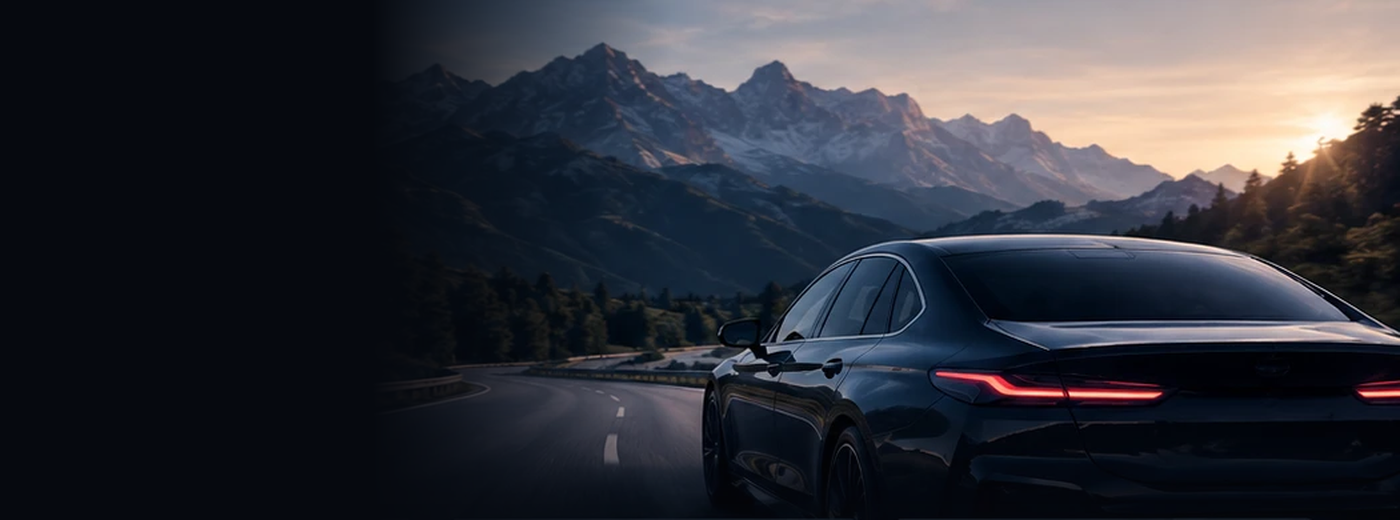
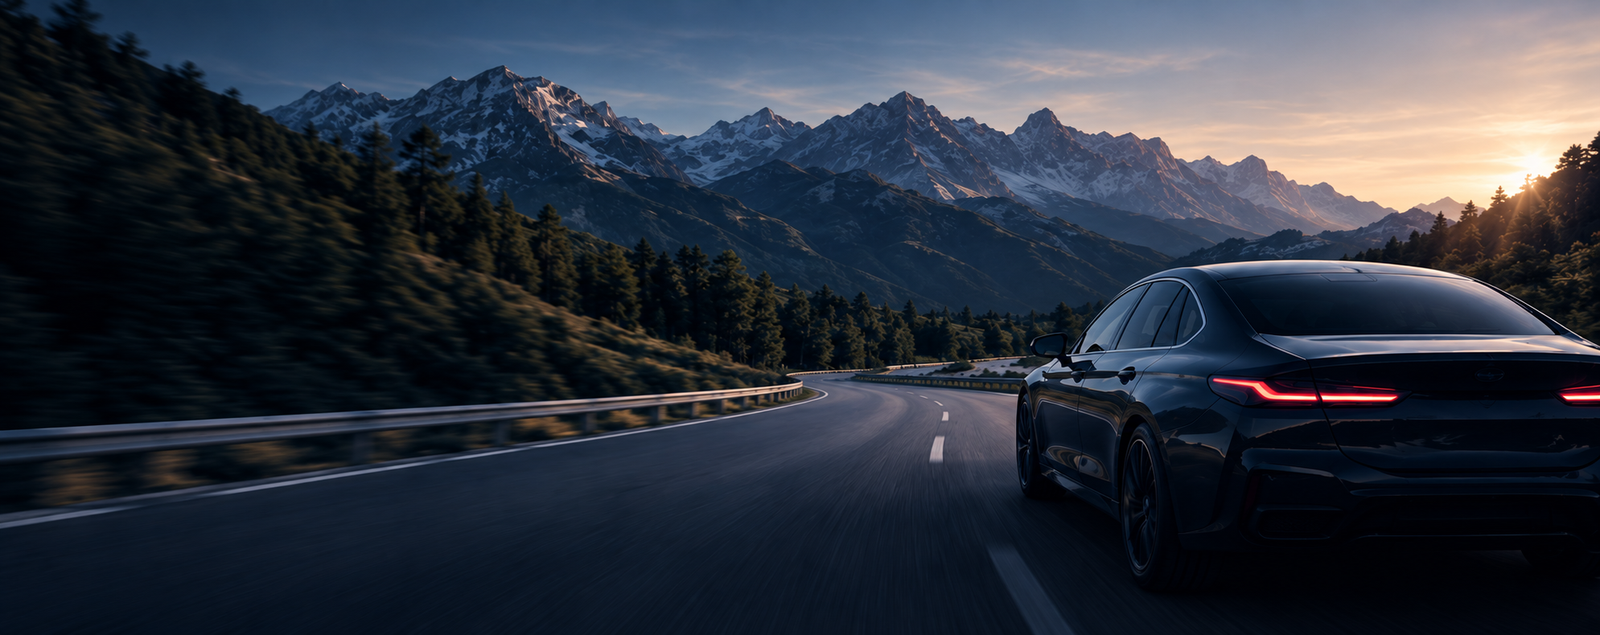
Home: hero con la foto pulita del mockup (home-road)
Sostituisce l'hero con la foto sorgente pulita ad alta risoluzione
(auto+montagne+tramonto, senza UI sovrapposta) — la stessa scena del
mockup ma senza testo/tile. Rinforzata la velatura sinistra per la
leggibilità dei titoli.

Claude-Session: https://claude.ai/code/session_01K5RBfY4RLPgUu2DadR2tuj

diff --git a/HeroBackground.qml b/HeroBackground.qml
@@ -90,8 +90,9 @@ Item {
         anchors.fill: parent
         gradient: Gradient {
             orientation: Gradient.Horizontal
-            GradientStop { position: 0.0; color: "#e6070b12" }
-            GradientStop { position: 0.45; color: "#66070b12" }
+            GradientStop { position: 0.0; color: "#f2070b12" }
+            GradientStop { position: 0.34; color: "#d9070b12" }
+            GradientStop { position: 0.60; color: "#73070b12" }
             GradientStop { position: 1.0; color: "#00070b12" }
         }
     }
